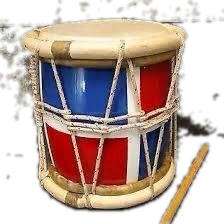
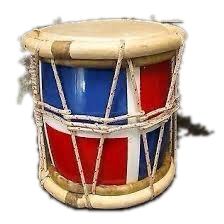
Limpiar residuos de fondo con componente conectado mas grande, y mostrar tambora tambien en movil

diff --git a/app/page.tsx b/app/page.tsx
@@ -576,7 +576,7 @@ export default async function Home(props: { searchParams: Promise<{ fecha?: stri
         <img
           src="/tambora.png"
           alt=""
-          className="pointer-events-none absolute -right-1 -top-2 hidden h-32 w-32 object-contain sm:block sm:h-40 sm:w-40 lg:right-6 lg:h-44 lg:w-44"
+          className="pointer-events-none absolute -right-1 -top-1 h-16 w-16 object-contain sm:-top-2 sm:h-32 sm:w-32 lg:right-6 lg:h-44 lg:w-44"
           style={{ filter: "drop-shadow(0 0 1.5px #FBF7EE) drop-shadow(0 0 1.5px #FBF7EE) drop-shadow(0 4px 8px rgba(0,0,0,0.35))" }}
         />
         <div className="relative mx-auto max-w-7xl">
